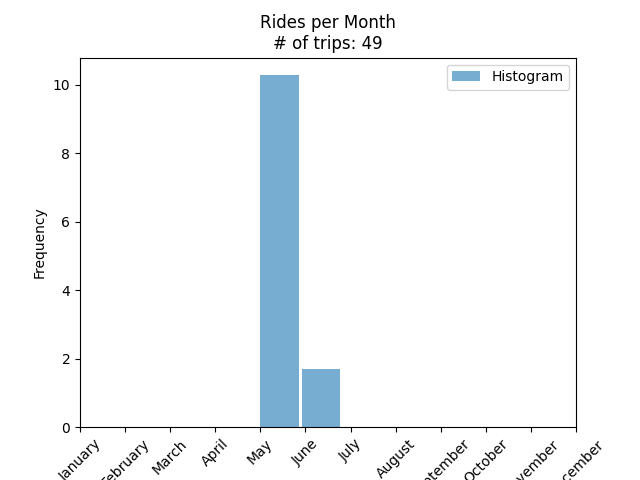
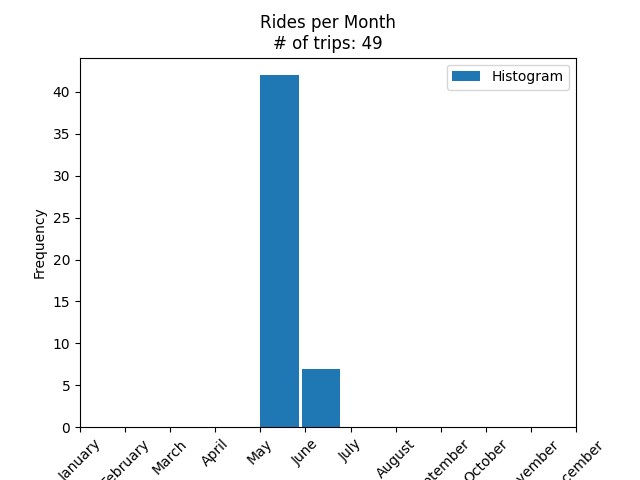
Change in rides per month graph

diff --git a/Present_Data.py b/Present_Data.py
@@ -17,49 +17,45 @@ with open('list_file.txt', 'r') as file:
 # print(dataset[2])
 # print(dataset[3])
 
-# start_date ------------------------------------------------------------------------------------------------
-# Time of day
-datetime_time = [datetime.strptime(time.strip(), '%m-%d-%Y %H:%M:%S').time() for time in dataset[0]]
-numeric_durations = [(dt.hour * 3600) + (dt.minute * 60) + dt.second for dt in datetime_time]
-mean = np.mean(numeric_durations)
-std_dev = np.std(numeric_durations)
-min = np.min(numeric_durations)
-max = np.max(numeric_durations)
-
-# Generate data points following a normal distribution
-num_points = 1000
-data_points = np.random.normal(mean, std_dev, num_points)
-# Plot the histogram
-plt.hist(numeric_durations, bins=24, density=True, alpha=0.6, label='Histogram')
-# Overlay the Gaussian curve
-x_values = np.linspace(0, 24*3600, num_points)
-y_values = stats.norm.pdf(x_values, mean, std_dev)
-plt.plot(x_values, y_values, 'r-', label='Gaussian Curve')
-plt.xticks([0,6*3600,12*3600,18*3600,24*3600],['0:00','6:00','12:00','18:00','24:00'])
-# Average
-plt.axvline(mean, color='g', linestyle='--', linewidth=2, label='Average')
-
-plt.xlabel('Time of Day')
-plt.ylabel('Frequency')
-plt.title('Trip Start Times\n\
- # of trips: '+str(len(dataset[1]))+' / Average: '+str(timedelta(seconds=round(float(mean)))).split(", ")[-1]+'\n\
- Earliest Ride: '+str(timedelta(seconds=round(float(min)))).split(", ")[-1]+' / Latest Ride: '+str(timedelta(seconds=round(float(max)))).split(", ")[-1])
-plt.legend()
-plt.savefig('Outputs/TimeOfDayHist.jpeg')
-plt.show()
-plt.close()
+# # start_date ------------------------------------------------------------------------------------------------
+# # Time of day
+# datetime_time = [datetime.strptime(time.strip(), '%m-%d-%Y %H:%M:%S').time() for time in dataset[0]]
+# numeric_durations = [(dt.hour * 3600) + (dt.minute * 60) + dt.second for dt in datetime_time]
+# mean = np.mean(numeric_durations)
+# std_dev = np.std(numeric_durations)
+# min = np.min(numeric_durations)
+# max = np.max(numeric_durations)
+#
+# # Generate data points following a normal distribution
+# num_points = 1000
+# data_points = np.random.normal(mean, std_dev, num_points)
+# # Plot the histogram
+# plt.hist(numeric_durations, bins=24, density=True, alpha=0.6, label='Histogram')
+# # Overlay the Gaussian curve
+# x_values = np.linspace(0, 24*3600, num_points)
+# y_values = stats.norm.pdf(x_values, mean, std_dev)
+# plt.plot(x_values, y_values, 'r-', label='Gaussian Curve')
+# plt.xticks([0,6*3600,12*3600,18*3600,24*3600],['0:00','6:00','12:00','18:00','24:00'])
+# # Average
+# plt.axvline(mean, color='g', linestyle='--', linewidth=2, label='Average')
+#
+# plt.xlabel('Time of Day')
+# plt.ylabel('Frequency')
+# plt.title('Trip Start Times\n\
+#  # of trips: '+str(len(dataset[1]))+' / Average: '+str(timedelta(seconds=round(float(mean)))).split(", ")[-1]+'\n\
+#  Earliest Ride: '+str(timedelta(seconds=round(float(min)))).split(", ")[-1]+' / Latest Ride: '+str(timedelta(seconds=round(float(max)))).split(", ")[-1])
+# plt.legend()
+# plt.savefig('Outputs/TimeOfDayHist.jpeg')
+# plt.show()
+# plt.close()
 
 #--------------------------------
 # Rides in a month
 datetime_months = [datetime.strptime(time.strip(), '%m-%d-%Y %H:%M:%S').month for time in dataset[0]]
 numeric_durations = datetime_months
-mean = np.mean(numeric_durations)
-std_dev = np.std(numeric_durations)
-min = np.min(numeric_durations)
-max = np.max(numeric_durations)
 
 # Plot the histogram
-plt.hist(numeric_durations, bins=12, density=True, alpha=0.6, label='Histogram',width=0.85)
+plt.hist(numeric_durations, bins=12, label='Histogram',width=0.85)
 months = ['January', 'February', 'March', 'April', 'May', 'June', 'July','August', 'September', 'October', 'November', 'December']
 plt.xticks(np.linspace(1, 12, 12),months,rotation=45)
 
@@ -71,36 +67,36 @@ plt.savefig('Outputs/RidesPerMonthHist.png')
 plt.show()
 plt.close()
 
-# durations ------------------------------------------------------------------------------------------------
-datetime_durations = [datetime.strptime(time.strip(), '%H:%M:%S').time() for time in dataset[1]]
-numeric_durations = [(dt.hour * 3600) + (dt.minute * 60) + dt.second for dt in datetime_durations]
-mean = np.mean(numeric_durations)
-std_dev = np.std(numeric_durations)
-min = np.min(numeric_durations)
-max = np.max(numeric_durations)
-
-# Generate data points following a normal distribution
-num_points = 1000
-data_points = np.random.normal(mean, std_dev, num_points)
-# Plot the histogram
-plt.hist(numeric_durations, bins=50, density=True, alpha=0.6, label='Histogram')
-# Overlay the Gaussian curve
-x_values = np.linspace(np.min(numeric_durations), np.max(numeric_durations), num_points)
-y_values = stats.norm.pdf(x_values, mean, std_dev)
-plt.plot(x_values, y_values, 'r-', label='Gaussian Curve')
-plt.xticks([0,6*60,12*60,18*60,24*60,30*60,36*60,42*60],['0:00','6:00','12:00','18:00','24:00','30:00','36:00','42:00'])
-# Average
-plt.axvline(mean, color='g', linestyle='--', linewidth=2, label='Average')
-
-plt.xlabel('Time')
-plt.ylabel('Frequency')
-plt.title('Trip Durations\n\
- # of trips: '+str(len(dataset[1]))+' / Average: '+str(timedelta(seconds=round(float(mean)))).split(", ")[-1]+'\n\
- Shortest Ride: '+str(timedelta(seconds=round(float(min)))).split(", ")[-1]+' / Longest Ride: '+str(timedelta(seconds=round(float(max)))).split(", ")[-1])
-plt.legend()
-plt.savefig('Outputs/RidesDurationsHist.png')
-plt.show()
-plt.close()
+# # durations ------------------------------------------------------------------------------------------------
+# datetime_durations = [datetime.strptime(time.strip(), '%H:%M:%S').time() for time in dataset[1]]
+# numeric_durations = [(dt.hour * 3600) + (dt.minute * 60) + dt.second for dt in datetime_durations]
+# mean = np.mean(numeric_durations)
+# std_dev = np.std(numeric_durations)
+# min = np.min(numeric_durations)
+# max = np.max(numeric_durations)
+#
+# # Generate data points following a normal distribution
+# num_points = 1000
+# data_points = np.random.normal(mean, std_dev, num_points)
+# # Plot the histogram
+# plt.hist(numeric_durations, bins=50, density=True, alpha=0.6, label='Histogram')
+# # Overlay the Gaussian curve
+# x_values = np.linspace(np.min(numeric_durations), np.max(numeric_durations), num_points)
+# y_values = stats.norm.pdf(x_values, mean, std_dev)
+# plt.plot(x_values, y_values, 'r-', label='Gaussian Curve')
+# plt.xticks([0,6*60,12*60,18*60,24*60,30*60,36*60,42*60],['0:00','6:00','12:00','18:00','24:00','30:00','36:00','42:00'])
+# # Average
+# plt.axvline(mean, color='g', linestyle='--', linewidth=2, label='Average')
+#
+# plt.xlabel('Time')
+# plt.ylabel('Frequency')
+# plt.title('Trip Durations\n\
+#  # of trips: '+str(len(dataset[1]))+' / Average: '+str(timedelta(seconds=round(float(mean)))).split(", ")[-1]+'\n\
+#  Shortest Ride: '+str(timedelta(seconds=round(float(min)))).split(", ")[-1]+' / Longest Ride: '+str(timedelta(seconds=round(float(max)))).split(", ")[-1])
+# plt.legend()
+# plt.savefig('Outputs/RidesDurationsHist.png')
+# plt.show()
+# plt.close()
 
 # # station_name_start ------------------------------------------------------------------------------------------------
 # station_counter = Counter(list(map(str.strip, dataset[2])))
